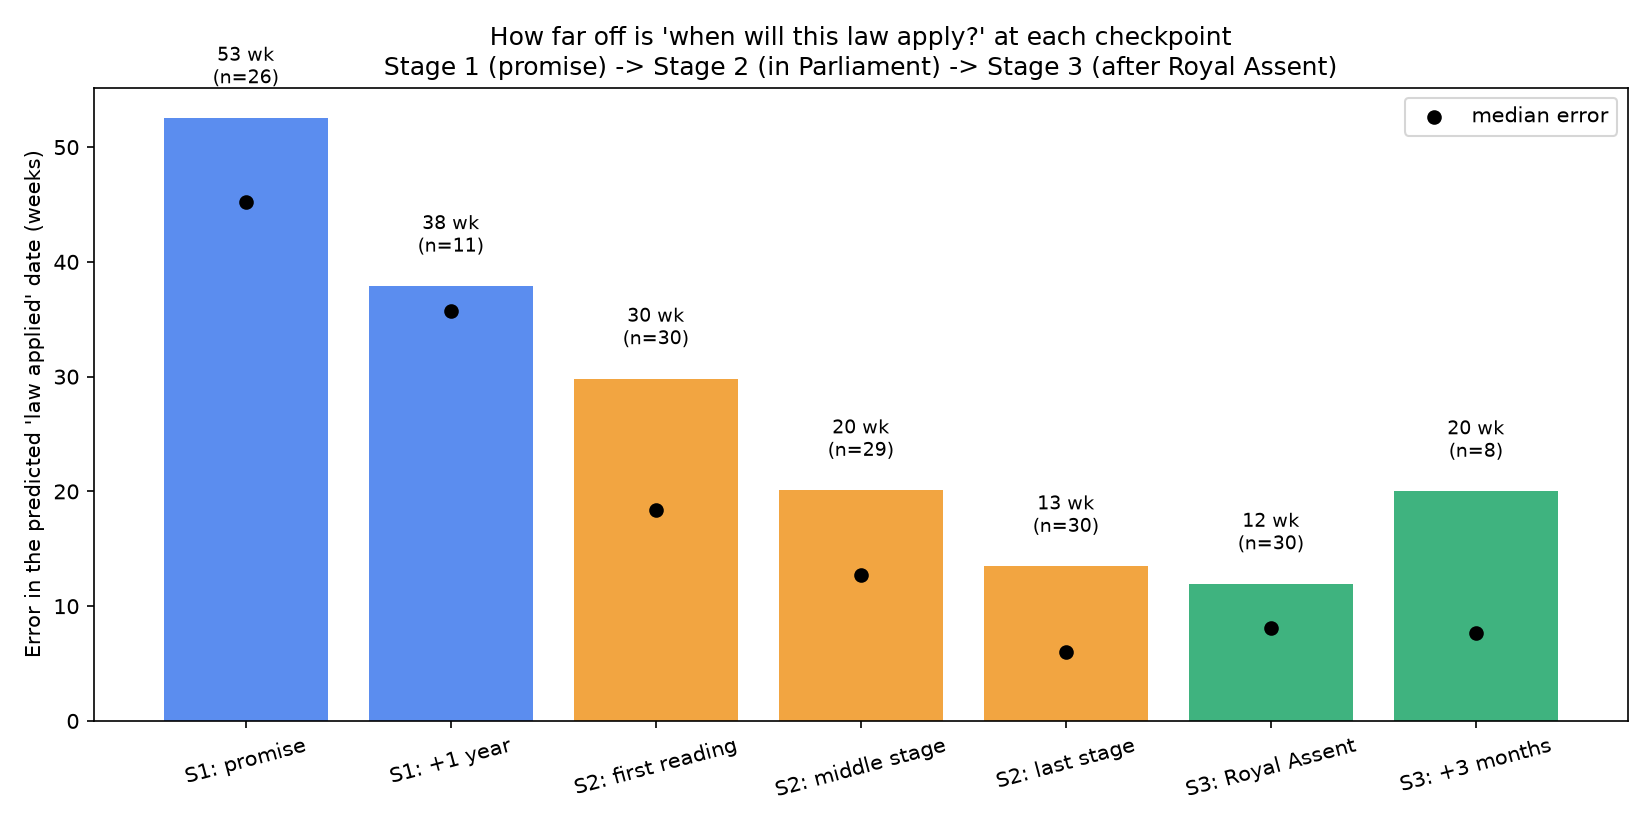
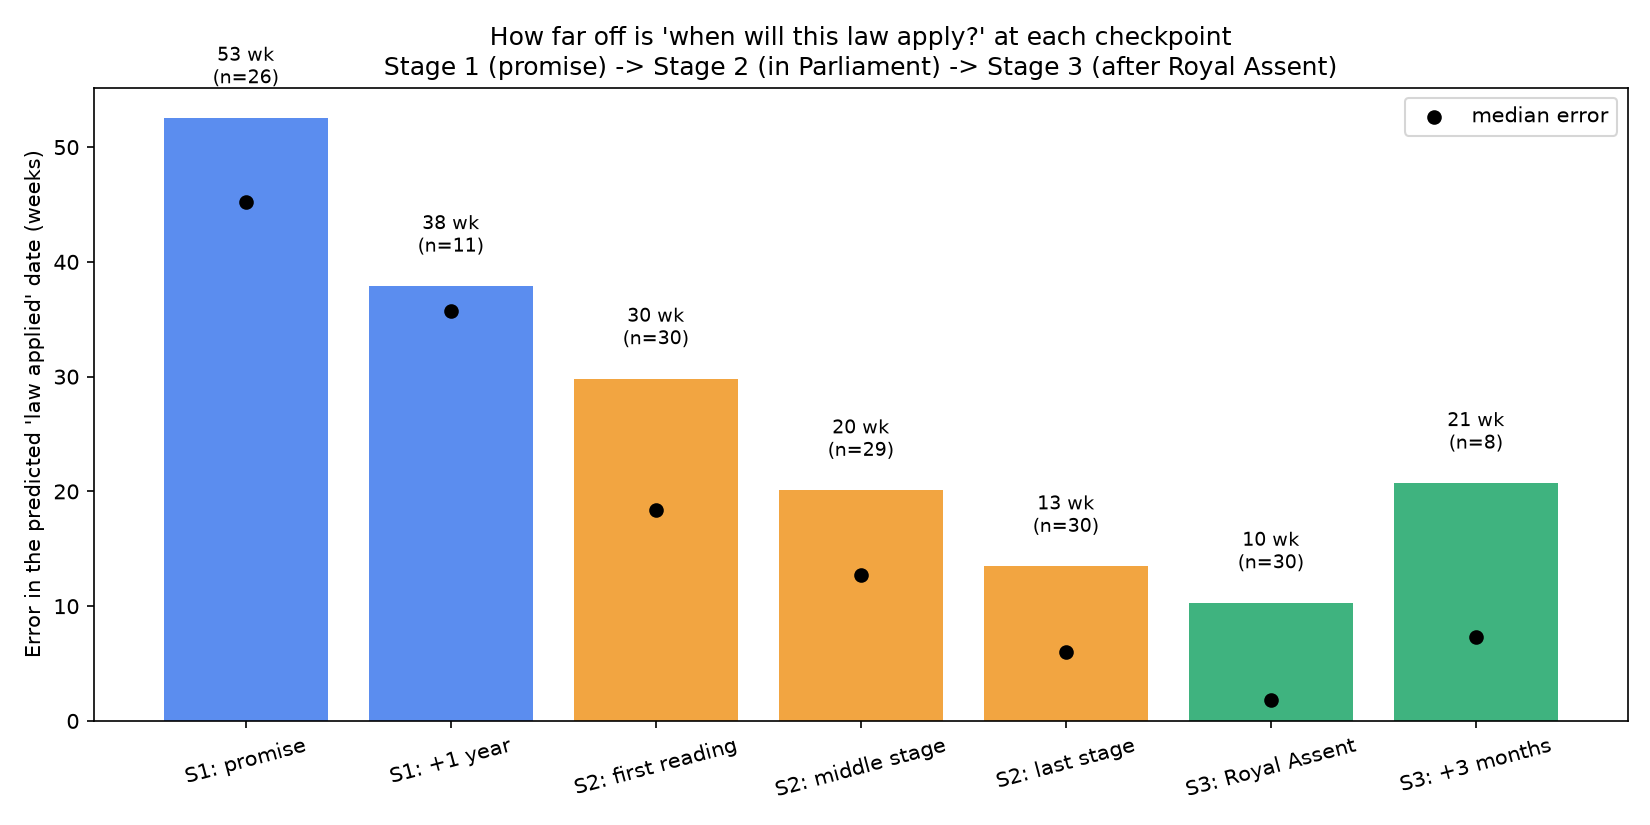
feat(journey): journey test and stage durations use the stage 3 XGBoost

Changed region(s): [[0.7109, 0.6364, 0.8345, 0.7576], [0.8655, 0.4848, 0.9273, 0.5455], [0.8345, 0.5758, 0.9582, 0.6061]]

diff --git a/backend/src/westminster_weather/journey/journey_test.py b/backend/src/westminster_weather/journey/journey_test.py
@@ -15,8 +15,8 @@ Predicted law-applied date at each checkpoint:
 - Stage 2 (first reading, a middle stage, last stage before Royal Assent): Aleks's passage
   model (rolling backtest stored in `backtest_forecasts`) gives the Royal Assent date (p50),
   plus the median Royal Assent -> law applied of Acts finished before that day.
-- Stage 3 (Royal Assent, +13 weeks): stage-3 commencement model (`forecast_act`): first-order
-  date (p50, calibrated) if it says orders are needed, else the Royal Assent date.
+- Stage 3 (Royal Assent, +13 weeks): stage 3 XGBoost (`journey.stage3_xgb`): median date the
+  law applies.
 
 Read-only. Run: uv run python -m westminster_weather.journey.journey_test [n_cases]
 """
@@ -30,7 +30,7 @@ import pandas as pd
 from sqlalchemy import text
 
 from westminster_weather.db import get_sync_pooled_engine
-from westminster_weather.journey import commencement as cm
+from westminster_weather.journey import stage3_xgb
 from westminster_weather.takeup import evaluate as ev
 from westminster_weather.takeup.bill_text import first_readings
 from westminster_weather.takeup.signals import TakeupData
@@ -164,19 +164,10 @@ def run(n_cases: int = 30) -> pd.DataFrame:
         ):
             if as_of > applied or (label != "S3: Royal Assent" and as_of >= applied):
                 continue
-            try:
-                a = cm.forecast_act(bill, as_of.date())
-            except (KeyError, ValueError):
+            f = stage3_xgb.forecast(bill, as_of.date())
+            if f is None:
                 continue
-            needs = a["needs_orders"]
-            if needs.get("observed"):
-                continue  # first order already seen: nothing left to predict
-            if needs["p"] >= 0.5:
-                d50 = (a["first_order"].get("calibrated_dates") or {}).get("t_50")
-                pred = pd.Timestamp(d50) if d50 else ra + pd.Timedelta(weeks=26)
-            else:
-                pred = ra
-            add(label, as_of, pred)
+            add(label, as_of, as_of + pd.Timedelta(days=f["days"][0.5]))
 
         print(
             f"  {c['idea_id']} -> {titles.get(bill)} (applied {applied.date()}): "

diff --git a/backend/src/westminster_weather/journey/stage_durations.py b/backend/src/westminster_weather/journey/stage_durations.py
@@ -6,8 +6,8 @@ using only information known that day:
   predicted first reading = promise + t_50 weeks.
 - Stage 2 (first reading -> Royal Assent): Aleks's passage model, first stored rolling
   forecast for the bill (`backtest_forecasts`), Royal Assent p50.
-- Stage 3 (Royal Assent -> law applied): `journey.commencement.forecast_act` at Royal Assent:
-  first commencement order p50 if orders are likely, else Royal Assent itself.
+- Stage 3 (Royal Assent -> law applied): stage 3 XGBoost (`journey.stage3_xgb`) at Royal
+  Assent, median days until the law applies.
 `--firm`: stage 1 starts at the idea's first firm commitment (firmness >= 2), not its first
 mention; ideas never firmly committed are left out.
 Read-only. Run: uv run python -m westminster_weather.journey.stage_durations [--firm]
@@ -18,7 +18,7 @@ import warnings
 
 import pandas as pd
 
-from westminster_weather.journey import commencement as cm
+from westminster_weather.journey import stage3_xgb
 from westminster_weather.journey.journey_test import OUT_DIR, load
 from westminster_weather.takeup import evaluate as ev
 from westminster_weather.takeup.bill_text import first_readings
@@ -87,16 +87,8 @@ def run(firm: bool = False) -> pd.DataFrame:
         row.update(stage2_pred_weeks=pred2, stage2_real_weeks=(ra - first).days / 7)
 
         # stage 3, predicted at Royal Assent
-        pred3 = None
-        try:
-            a = cm.forecast_act(bill, ra.date())
-            if a["needs_orders"]["p"] >= 0.5:
-                d50 = (a["first_order"].get("calibrated_dates") or {}).get("t_50")
-                pred3 = (pd.Timestamp(d50) - ra).days / 7 if d50 else None
-            else:
-                pred3 = 0.0
-        except (KeyError, ValueError):
-            pass
+        f3 = stage3_xgb.forecast(bill, ra.date())
+        pred3 = f3["days"][0.5] / 7 if f3 is not None else None
         row.update(stage3_pred_weeks=pred3, stage3_real_weeks=(applied - ra).days / 7)
         rows.append(row)
 

diff --git a/docs/agent-logs/feat--takeup-model.md b/docs/agent-logs/feat--takeup-model.md
@@ -1,5 +1,11 @@
 # Agent log: `feat/takeup-model`
 
+## 2026-10-25 05:27 — feat(journey): journey test and stage durations use the stage 3 XGBoost
+
+- **What:** `journey/journey_test.py` (S3 checkpoints) and `journey/stage_durations.py` (stage 3 at Royal Assent) now predict with `journey.stage3_xgb` (median days until the law applies) instead of `journey.commencement.forecast_act`. Regenerated `backend/reports/journey/journey_test.csv`, `journey_error_by_stage.png` and `stage_durations_predicted.csv` (the earlier `ra` and `*_improved` columns carried over).
+- **Why:** Roman asked for the end-to-end journey to use the new stage 3 model.
+- **Checks:** `ruff check`: clean. Journey (30 cases), S3 at Royal Assent: median miss 8.1 -> 1.8 weeks, mean 12.0 -> 10.3; S3 +3 months (8 cases): median 7.6 -> 7.4, mean 20.0 -> 20.7. Stage durations (47 cases), stage 3: median miss 7.9 -> 1.9 weeks, mean 11.5 -> 10.7. Stages 1 and 2 unchanged.
+
 ## 2026-10-25 05:24 — feat(api): stage 3 XGBoost in the bill forecast endpoint
 
 - **What:** `journey/stage3_xgb.py` serves the two-step stage 3 XGBoost (same features and target as `analysis/commencement_xgb.py`): a same-day classifier plus p10/p50/p90 quantile regressors, fitted per month on checkpoints before the month's first day whose outcome was already known, using only events dated on or before `as_of`. `GET /api/v1/bills/{id}/forecast` now fills `commencement_probability` (P(law applies on Royal Assent day); 1/0 once known) and `time_to_commencement` (days from `as_of` until the law applies; negative once applied) for Acts; both stay null before Royal Assent. Recent Acts with no order whose text leaves commencement to regulations count as still awaiting their first order (Tobacco and Vapes Act 2026). `analysis/commencement_xgb.py` reads Illia's settings by path instead of importing the v2 tuning module. Database only.
